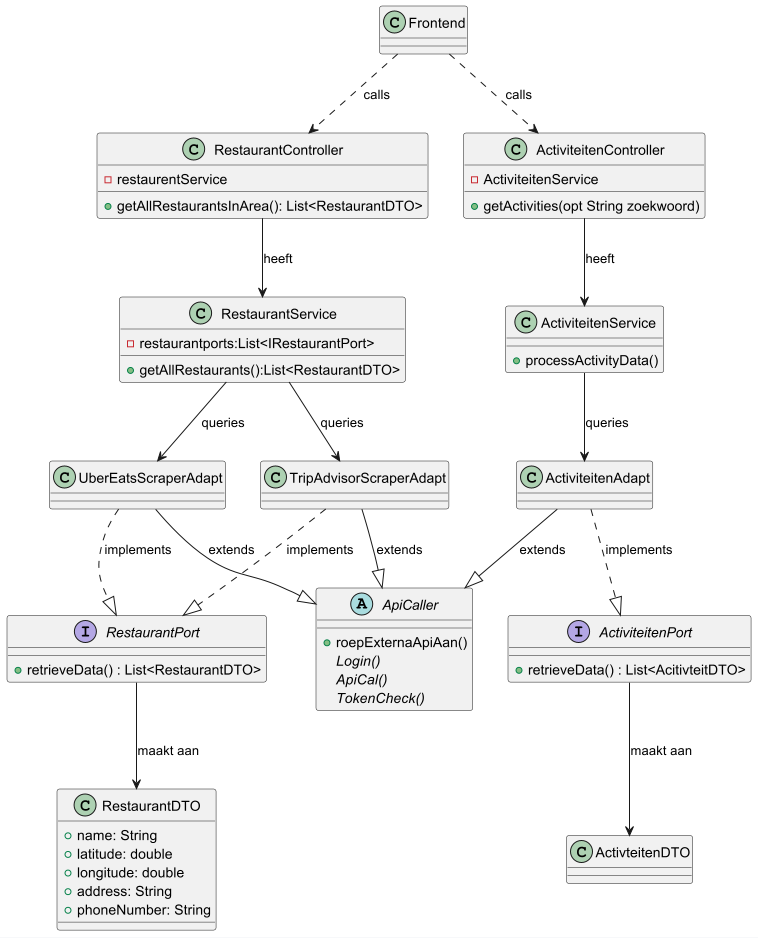
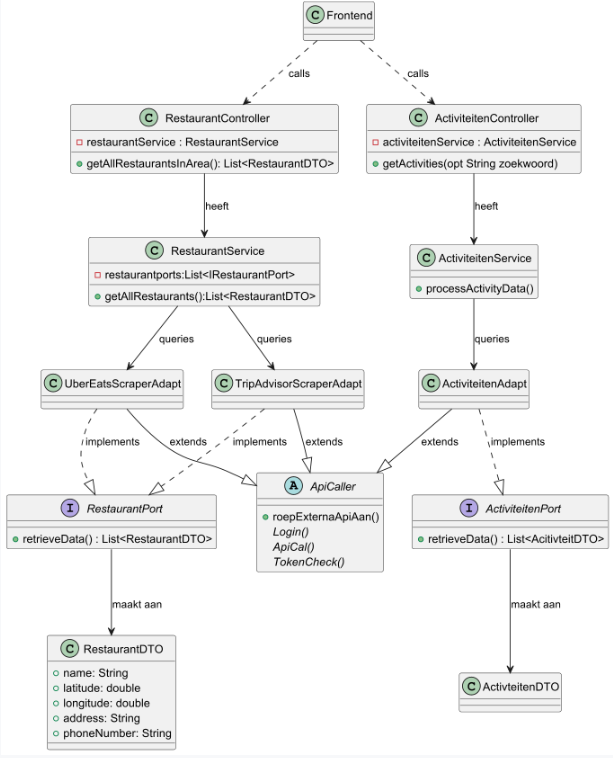
.

Changed region(s): [[0.0, 0.091, 1.0, 1.0], [0.4959, 0.0, 0.6199, 0.0607], [0.4339, 0.0607, 0.5269, 0.1214]]

diff --git a/software-guidebook/SGB.md b/software-guidebook/SGB.md
@@ -414,6 +414,9 @@ Zo hoeven we niet voor elke port een langer of nieuwe aanroep te maken in de ser
 
 De activiteiten-Kant van het diagram is niet geimplementeerd in het proto-type. Dit heeft als reden dat het geen betrekking had op verder bewijs of de **adapter pattern** voldeed aan de verwachten die waren gesteld in [makkelijk uitbreiden externe API's](#adr-004-makkelijk-uitbreiden-externe-apis). Het is wel opgenomen in het klassediagram omdat het wel goed laat zien hoe er nog andere soorten api's makkelijk geimplementeerd kunnen worden en dat de apiCaller een algemene klasse is voor alle klasse die een api aan gaan roepen.
 
+Om een nieuwe Externe API aan te sluiten die ook restaurant data ophaalt, is het een kwestie van een nieuwe klasse maken die **apiCaller** extend, en **IRestaurantPost** implementeerd. Boven de klasse zet je de @Component annotatie neer. Deze zorgt ervoor dat de klasse automatisch door de service wordt meegenomen in de lijst van aan te roepen IRestaurantPorts.
+Mocht er een nieuwe functionaliteit toegevoegd moeten worden moet er uiteraard een controller en service gemaakt worden. Ook moet er port-interface komen voor het verwerken van de nieuwe data. Je maakt voor elke API een implementatie aan zoals je dat zou doen als hierboven beschreven.
+
 
 #### **class diagram transport api's**
 ![Class diagram travel externe api's](../opdracht-diagrammen/classDiagramTravel.png)
